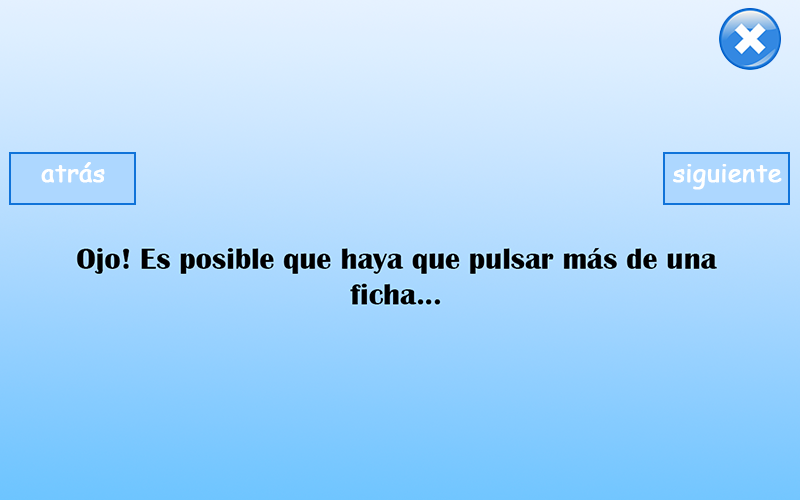
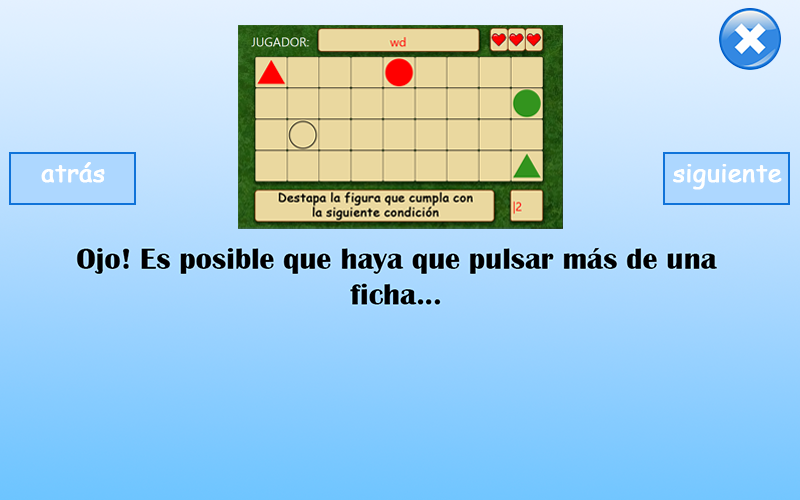
Ahora el label de ficha reto esta en su lugar, el contador desaparece al acabar el tiempo para dejar el espacio al label ficha reto, y se agregaron las imagenes del juego a VentanaComoJugar

Changed region(s): [[0.2812, 0.03, 0.7188, 0.48]]

diff --git a/Miniproyecto_2/src/vista/VentanaJuego.java b/Miniproyecto_2/src/vista/VentanaJuego.java
@@ -5,13 +5,17 @@
 package vista;
 
 import actores.*;
+import java.awt.Color;
 import java.util.List;
 import java.awt.event.ActionEvent;
 import java.awt.event.ActionListener;
 import java.util.ArrayList;
 import java.util.Arrays;
+import javax.swing.BorderFactory;
 import javax.swing.ImageIcon;
 import javax.swing.Timer;
+import javax.swing.border.Border;
+import javax.swing.border.LineBorder;
 
 /**
  *
@@ -37,6 +41,7 @@ public class VentanaJuego extends javax.swing.JFrame {
     private int dificultad = 1;
     private Timer contador;
     private Timer contadorTiempoTranscurrido;
+    private Border border = new LineBorder(Color.BLUE,5);
 
     private JuegoMemorable juego;
 
@@ -60,7 +65,7 @@ public class VentanaJuego extends javax.swing.JFrame {
                 lblContador.setText("|" + tiempoDeObservacion);
                 if (tiempoDeObservacion == 0) {
                     contador.stop();
-
+                    lblContador.setText("");
                     for (int i = 0; i < listaLabelsFichas.size(); i++) {
                         listaLabelsFichas.get(i).setIcon(null);
                     }
@@ -503,7 +508,7 @@ public class VentanaJuego extends javax.swing.JFrame {
         lblContador.setForeground(new java.awt.Color(255, 0, 0));
         lblContador.setText("|"+tiempoDeObservacion);
         getContentPane().add(lblContador, new org.netbeans.lib.awtextra.AbsoluteConstraints(677, 410, 70, 70));
-        getContentPane().add(lblFichaReto, new org.netbeans.lib.awtextra.AbsoluteConstraints(620, 290, 100, 170));
+        getContentPane().add(lblFichaReto, new org.netbeans.lib.awtextra.AbsoluteConstraints(677, 410, 70, 70));
 
         contenedorPpal.setLayout(new org.netbeans.lib.awtextra.AbsoluteLayout());
 
@@ -717,7 +722,6 @@ public class VentanaJuego extends javax.swing.JFrame {
                     lblVida1.setIcon(new ImageIcon(getClass().getResource("/imagenes/vidas/corazonNo.png")));
             }
             finalizarOContinuarRonda(figuraX, true);
-            System.out.println(jugador.getVidas());
         } else {
             figuraX.setRutaDeImagenTo();
             String icono = figuraX.getRutaDeImagen();
@@ -737,7 +741,6 @@ public class VentanaJuego extends javax.swing.JFrame {
                         lblVida1.setIcon(new ImageIcon(getClass().getResource("/imagenes/vidas/corazonNo.png")));
                 }
                 finalizarOContinuarRonda(figuraX, true);
-                System.out.println(jugador.getVidas());
             }
         }
     }
